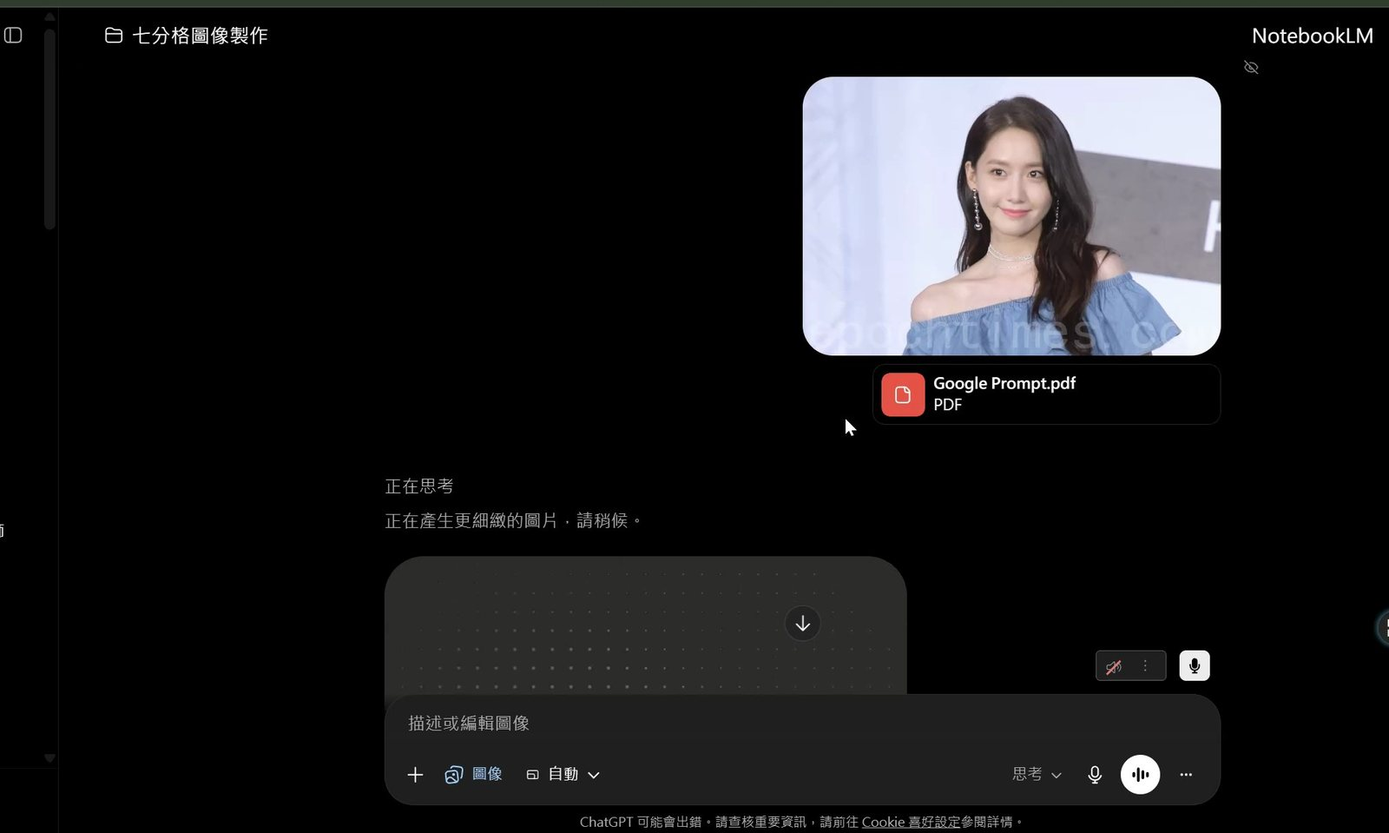
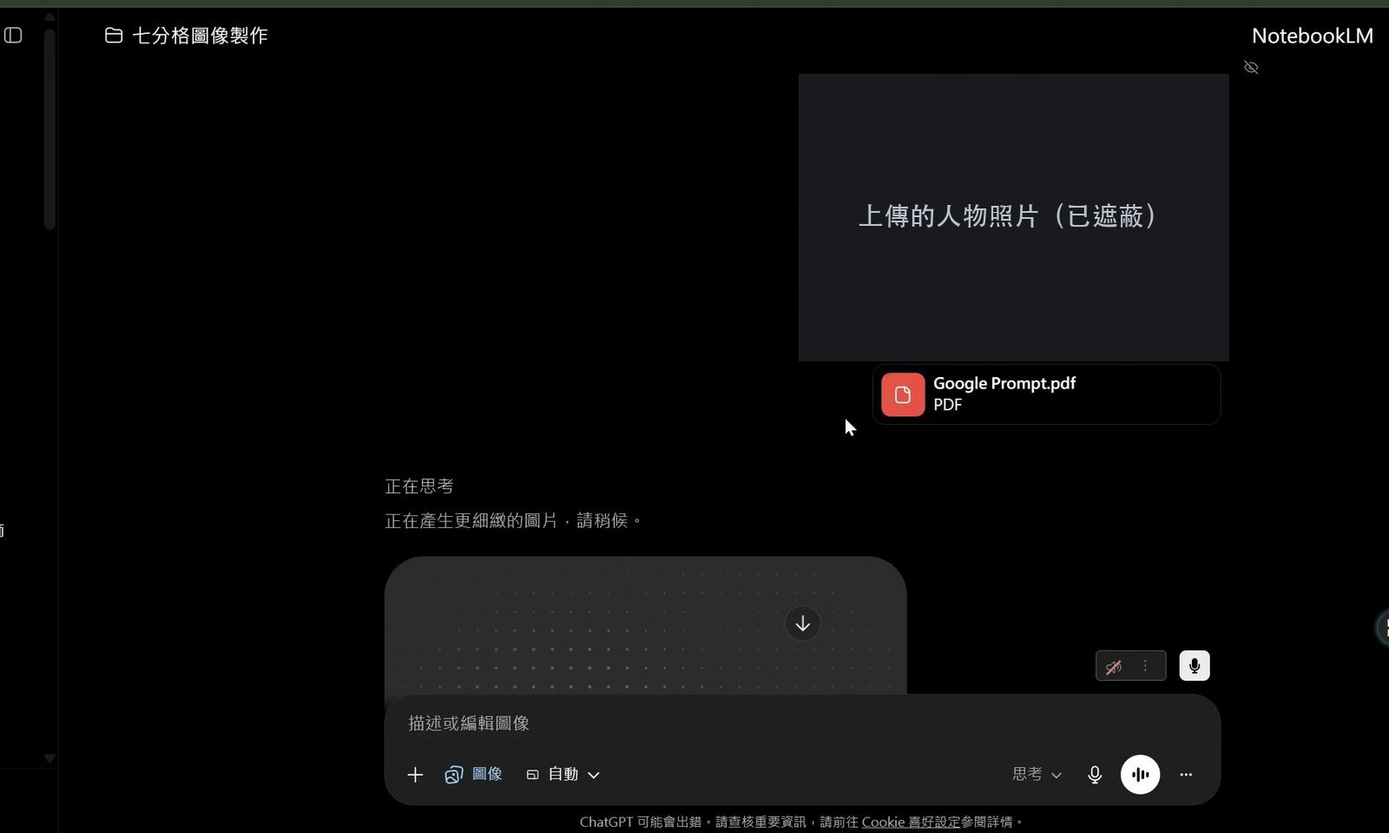
修正 ECF 第二季第三堂公開頁的引述、事實與去識別化問題
獨立驗收找出 20 項問題，本次處理其餘 14 項（阻擋上線的 iframe 與資料夾連結已於前一次提交移除）：

內容正確性
- 刪掉一句捏造引述「看到主角在夾娃娃機前哭」，改為逐字稿 28:32 的原話
- 「六階段的營運 SOP」更正為五階段（圖上實際只有 5 段）
- 三處引用句對齊截圖原文：「版型及風格」→「版型與風格」、「3D皮克斯風 +」→「3D皮克斯 +」
- 移除公開頁上的〔待確認〕，依上下文（青銅器）確認為「古畫」
- 示範用信箱改為通用寫法，並註明課堂上是假帳號
- 修正兩章時間範圍，讓圖說時間戳落在所屬章節內

去識別化
- 遮蔽課堂素材中的第三人肖像照片（含通訊社浮水印）
- 遮蔽個股示範圖的標的名稱與買賣結論、看盤畫面的股票名稱與報價
- 再裁掉四張圖殘留的講師個人環境（對話清單、側邊欄、工作列、疊字按鈕列）
- 簡報縮頁圖改以原生解析度重新擷取

Claude-Session: https://claude.ai/code/session_01U8aSQE8ohxsCQnDEmVAMM1

Changed region(s): [[0.5625, 0.0907, 0.9062, 0.4536]]

diff --git a/public/notes/s2e3-notes.html b/public/notes/s2e3-notes.html
@@ -160,7 +160,7 @@ footer a{color:var(--ink2)}
   <h3>🎬 課堂錄影</h3>
   <p class="cd">上半場：開場說明 → 16 格貼圖 → 免費帳號與 LM Arena → 七分格實作 → ChatGPT 專案與版型鎖定 → SWOT／DISC 圖表 →「說好的圖呢」。下半場：舊提示詞升級 → 寬幅心智圖 → 簡報縮頁 → 11 種圖表動態參數 → 個股分析與手機端操作 → 收尾。</p>
   <div class="note steel">🔧 <div><b>錄影不放在這一頁，也不提供連結。</b>兩段課堂錄影是課程方的教材，只在訂閱學員的課程資料夾裡；已訂閱的學員請自行前往原課程資料夾觀看。本頁只保留整理後的文字、截圖與時間軸。</div></div>
-  <div class="note gold">🔒 <div><b>本頁的截圖已裁掉線上教室的與會者名單與講師的個人帳號環境。</b>原始錄影是 Teams 畫面分享，畫面上方是網址列與個人頭像、左側是講師釘選的 GPT 清單與帳號名稱、九宮格上有 24 位學員的真實姓名。整理成公開頁面時這四類一律裁除或整幀替換，逐字稿裡出現的學員暱稱也一併隱去。</div></div>
+  <div class="note gold">🔒 <div><b>本頁的截圖已裁掉線上教室的與會者名單與講師的個人帳號環境。</b>原始錄影是 Teams 畫面分享，畫面上方是網址列與個人頭像、左側是講師釘選的 GPT 清單與帳號名稱、九宮格上有 24 位學員的真實姓名。整理成公開頁面時這四類一律裁除或整幀替換，逐字稿裡出現的學員暱稱也一併隱去。另外三類也做了遮蔽：課堂上當作素材的<b>第三人肖像照片</b>（含通訊社浮水印）、個股示範圖上的<b>標的名稱與買賣結論</b>、看盤畫面的<b>股票名稱與報價</b>。</div></div>
 </section>
 
 <!-- ══════════ 1 ══════════ -->
@@ -195,7 +195,7 @@ footer a{color:var(--ink2)}
 
     <rect x="496" y="52" width="222" height="86" rx="12" fill="#FBF7EC" stroke="#EFE3C4"/>
     <text x="607" y="80" text-anchor="middle" font-size="14.5" font-weight="700" fill="#7a5b12">② 鎖住版型</text>
-    <text x="607" y="102" text-anchor="middle" font-size="12.5" fill="#5f5f5f">「版型及風格必須與</text>
+    <text x="607" y="102" text-anchor="middle" font-size="12.5" fill="#5f5f5f">「版型與風格必須與</text>
     <text x="607" y="120" text-anchor="middle" font-size="12.5" fill="#5f5f5f">資料來源中的檔案一致」</text>
 
     <line x1="718" y1="95" x2="752" y2="95" stroke="#9B9B9B" stroke-width="1.6" marker-end="url(#ar)"/>
@@ -269,10 +269,11 @@ footer a{color:var(--ink2)}
 
   <h3>方法一：Gmail 加號別名，一個信箱當十個帳號用</h3>
   <p>ChatGPT 註冊時<b>不要用 Google 登入，改用 Email 註冊</b>。把你原本的 Gmail 加上 <code>+1</code>、<code>+2</code>、<code>+3</code>，對 Google 信箱來說仍是同一個信箱，會收到驗證信，但對 ChatGPT 來說是不同帳號。</p>
-  <div class="code">原本：eric.yng@gmail.com
-註冊用：eric.yng+1@gmail.com
-　　　　eric.yng+2@gmail.com
-　　　　eric.yng+3@gmail.com</div>
+  <div class="code">原本：yourname@gmail.com
+註冊用：yourname+1@gmail.com
+　　　　yourname+2@gmail.com
+　　　　yourname+3@gmail.com</div>
+  <p class="cd">課堂上他是拿一組信箱當場示範，並在畫面上說「這個是假的帳號，不用寄給我」。本頁改成通用寫法，換成你自己的信箱即可。</p>
   <ol class="st">
     <li>在 ChatGPT 註冊頁選 <b>用 Email 註冊</b>，填加了 <code>+N</code> 的信箱。</li>
     <li>回你<b>原本</b>的 Gmail 收驗證信，把驗證碼填回去，帳號就成立。</li>
@@ -311,7 +312,7 @@ footer a{color:var(--ink2)}
 
   <figure class="shot">
     <img src="s2e3-img/04-wrong-sample.jpg" alt="AI 產出的七分格圖，主題卻是提示詞範例裡的「損失規避」而不是筆電" loading="lazy">
-    <figcaption>失敗長這樣。整張圖的版型、格數、色調都對，但主題錯了——它畫的是提示詞裡當範例用的「為什麼我們更害怕失去？損失規避」，完全沒讀到那個筆電連結。他說：<b>看到主角在夾娃娃機前哭，就知道它抓的是樣本。</b>［上半場 28:34］</figcaption>
+    <figcaption>失敗長這樣。整張圖的版型、格數、色調都對，但主題錯了——它畫的是提示詞裡當範例用的「為什麼我們更害怕失去？損失規避」，完全沒讀到那個筆電連結。他當場的說法是：<b>「他沒有抓到我要的資料……像他這個就沒有抓到，直接抓所謂損失規避的部分。」</b>［上半場 28:32］</figcaption>
   </figure>
 
   <h3>兩個修法</h3>
@@ -368,7 +369,7 @@ footer a{color:var(--ink2)}
   <p class="cd">人物一致性今年已經不難了，難的是<b>版型與配色</b>每次都不一樣。他花了整整十二分鐘，只為了教一句話。</p>
 
   <p>做法是在原本的七分格提示詞最後面，加上這一句：</p>
-  <div class="code">圖像版型及風格必須與資料來源中的檔案一致。</div>
+  <div class="code">圖像版型與風格必須與資料來源中的檔案一致。</div>
 
   <figure class="shot">
     <img src="s2e3-img/07-anchor-line.jpg" alt="記事本中的七分格提示詞，末尾新加的「資料來源中的檔案一致」被反白" loading="lazy">
@@ -399,7 +400,7 @@ footer a{color:var(--ink2)}
   <h2 class="ct">7. 分析框架也能好看：尾巴加一句風格</h2>
   <p class="cd">他在社團分享過很多張漂亮的分析圖表——DISC 人格特質、PEST、SWOT、平衡計分卡、波士頓分析。有人問「為什麼你畫出來的圖會像這樣子？」答案又是一句話。</p>
 
-  <div class="code">圖像版型與風格：3D皮克斯風 + 麥肯錫專業圖表風</div>
+  <div class="code">圖像版型與風格: 3D皮克斯 + 麥肯錫專業圖表風</div>
 
   <figure class="shot">
     <img src="s2e3-img/08-style-line.jpg" alt="記事本中的提示詞末尾，新加的風格句被反白" loading="lazy">
@@ -410,7 +411,7 @@ footer a{color:var(--ink2)}
 
   <figure class="shot">
     <img src="s2e3-img/09-swot-trump.jpg" alt="3D 皮克斯風格的 SWOT 分析圖，主題是美伊戰爭對物價通膨的影響" loading="lazy">
-    <figcaption>當場產出的成品。主題是他隨口給的「個人背景資料：川普／分析主題：美伊戰爭對於物價通膨的影響」。看四個象限的配置——優勢、劣勢、機會、威脅照 SWOT 標準位置擺，右下角還多了 SO 展開策略與 WT 因應方針兩欄，那是教材 <code>SWOT分析.txt</code> 的任務二要求的。<b>風格變了，結構沒變。</b>［上半場 68:15］</figcaption>
+    <figcaption>當場產出的成品。主題是他隨口給的「個人背景資料：川普／分析主題：美伊戰爭對於物價通膨的影響」。看四個象限的配置——優勢、劣勢、機會、威脅照 SWOT 標準位置擺，右下角還多了 SO 展開策略與 WT 因應方針兩欄，那是教材 <code>SWOT分析.txt</code> 的任務二要求的。<b>風格變了，結構沒變。</b>［上半場 68:15；這張成品是第 8 章示範「說好的圖呢」之後才畫出來的］</figcaption>
   </figure>
 
   <div class="note steel">🔧 <div><b>這一段的示範中途壞掉過。</b>ChatGPT 一直畫不出來，他按 F5 重新整理，說「真的沒有，ChatGPT 掛掉了」，然後改用 Gemini Pro 重做。本頁照實記錄，沒有跳過也沒有假裝順利。</div></div>
@@ -430,7 +431,7 @@ footer a{color:var(--ink2)}
 
   <figure class="shot">
     <img src="s2e3-img/10-say-the-image.jpg" alt="Gemini 回答的「圖像遺漏的對話修正機制」說明，分三點解釋為什麼質疑句有效" loading="lazy">
-    <figcaption>他不只用，還回頭去問 AI「為什麼這句有效」，把答案存成教材 <code>說好的圖呢.txt</code>。三個理由：<b>強制觸發上下文回溯</b>（要它回去檢查前一輪答應了什麼）、<b>修正行為的權重高於執行指令</b>（RLHF 訓練讓它極力避免不一致）、<b>擬人化對話模式的補全</b>（「約定→遺漏→追討」的下一句通常是補上）。［上半場 42:42］</figcaption>
+    <figcaption>他不只用，還回頭去問 AI「為什麼這句有效」，把答案存成教材 <code>說好的圖呢.txt</code>。三個理由：<b>強制觸發上下文回溯</b>（要它回去檢查前一輪答應了什麼）、<b>修正行為的權重高於執行指令</b>（RLHF 訓練讓它極力避免不一致）、<b>擬人化對話模式的補全</b>（「約定→遺漏→追討」的下一句通常是補上）。［畫面出自上半場 42:42，這段內容他在 68:49 才展開講］</figcaption>
   </figure>
 
   <div class="note gold">⚠ <div><b>什麼時候不能用這句。</b>第 4 章那次失敗——它<b>有</b>畫圖，只是內容錯了。這時候說「說好的圖呢」沒有用，要明確指出內容應該參考哪裡。這句只對「該畫沒畫」有效。</div></div>
@@ -489,7 +490,7 @@ footer a{color:var(--ink2)}
     <figcaption>成品。同一台 ROG 筆電，這次不是七分格而是寬幅心智圖：中央放產品，左邊三支（設計定位、核心效能、顯示體驗）、右邊三支（連接與擴充、行動與續航、附加價值），左右均勻展開。<b>他強調「左右兩側均勻展開，不要只是固定往右側」這條也是提示詞裡寫死的規格。</b>［下半場 16:26］</figcaption>
   </figure>
 
-  <div class="note blue">💡 <div>他順手給了一個延伸：<b>比例改成 3:1 或 4:1 之後，效果很像長卷式的〔古畫？逐字稿此處聽不清，暫記待確認〕</b>。上一季發過的那組長卷與青銅器風格提示詞，把版型改成寬版就有完全不同的味道。想做橫幅 banner 也是同一招。</div></div>
+  <div class="note blue">💡 <div>他順手給了一個延伸：<b>比例改成 3:1 或 4:1 之後，效果很像長卷式的古畫</b>。上一季發過的那組長卷與青銅器風格提示詞，把版型改成寬版就有完全不同的味道。想做橫幅 banner 也是同一招。</div></div>
 </section>
 
 <!-- ══════════ 11 ══════════ -->
@@ -522,7 +523,7 @@ footer a{color:var(--ink2)}
 
   <figure class="shot">
     <img src="s2e3-img/16-pyramid-linear.jpg" alt="一張同時包含左側線性流程圖與右側金字塔層級圖的親子餐廳企劃資訊圖" loading="lazy">
-    <figcaption>這張圖是這一節的重點。他故意刁難：<b>「左側為線性流程圖，右側為金字塔層級圖」</b>——看成品，左邊真的是六階段的營運 SOP 橫向流程，右邊真的是六層的品牌價值金字塔。原本的提示詞裡完全沒有「左側／右側」這種欄位，是他當場加上去的。［下半場 30:25］</figcaption>
+    <figcaption>這張圖是這一節的重點。他故意刁難：<b>「左側為線性流程圖，右側為金字塔層級圖」</b>——看成品，左邊真的是五階段的營運 SOP 橫向流程，右邊真的是六層的品牌價值金字塔。原本的提示詞裡完全沒有「左側／右側」這種欄位，是他當場加上去的。［下半場 30:25］</figcaption>
   </figure>
 
   <h3>動態參數：結構裡沒有的，也可以臨時給</h3>
@@ -546,7 +547,7 @@ footer a{color:var(--ink2)}
 
 <!-- ══════════ 13 ══════════ -->
 <section class="chapter" id="sec-stock">
-  <span class="chip" style="background:linear-gradient(90deg,var(--rose),var(--pink))">下半場 32:00–36:00</span>
+  <span class="chip" style="background:linear-gradient(90deg,var(--rose),var(--pink))">下半場 32:00–36:00、47:00–51:00</span>
   <h2 class="ct">13. 個股分析圖表：兩個多禮拜磨出來的版型</h2>
   <p class="cd">下半場的後半是這堂最花時間做出來的東西，也是最需要先講清楚界線的東西。</p>
 
@@ -557,7 +558,7 @@ footer a{color:var(--ink2)}
 
   <figure class="shot">
     <img src="s2e3-img/17-stock-chart.jpg" alt="深色交易終端風格的個股分析資訊圖，分成技術面、籌碼面、操作與警示三欄" loading="lazy">
-    <figcaption>成品的版型：左欄技術面（日 K、MA5／MA20／MA60、成交量、RSI／MACD／KD），中欄籌碼面（三大法人 10 日動向、法人買賣超表格、主力進出），右欄操作與警示（成交量分析、主力出貨警示紅燈、短線進場勝率儀表、關鍵價位、可能路徑、重點總結）。中間那個超大的字就是結論。<b>左下角有一行免責聲明。</b>［下半場 50:20］</figcaption>
+    <figcaption>成品的版型：左欄技術面（日 K、MA5／MA20／MA60、成交量、RSI／MACD／KD），中欄籌碼面（三大法人 10 日動向、法人買賣超表格、主力進出），右欄操作與警示（成交量分析、主力出貨警示紅燈、短線進場勝率儀表、關鍵價位、可能路徑、重點總結）。中間那個超大的字就是結論，<b>本頁已遮蔽</b>；右下角的標的名稱同樣遮掉，只留版型。原圖右下角有一行免責聲明「本圖為技術分析整理，不保證獲利」。［下半場 50:20］</figcaption>
   </figure>
 
   <h3>他花最多時間調的三件事</h3>
@@ -577,7 +578,7 @@ footer a{color:var(--ink2)}
 
 <!-- ══════════ 14 ══════════ -->
 <section class="chapter" id="sec-mobile">
-  <span class="chip" style="background:linear-gradient(90deg,var(--orange),var(--amber))">下半場 36:00–48:00</span>
+  <span class="chip" style="background:linear-gradient(90deg,var(--orange),var(--amber))">下半場 36:00–47:00</span>
   <h2 class="ct">14. 手機端才是主場：三張截圖出一張圖</h2>
   <p class="cd">這一節回答了一個前面留下的問題：為什麼一定要做成「專案」？因為<b>專案在手機的 ChatGPT App 裡也叫得到</b>，而看盤是在手機上發生的事。</p>
 
@@ -590,7 +591,7 @@ footer a{color:var(--ink2)}
 
   <figure class="shot">
     <img src="s2e3-img/18-mobile-shots.jpg" alt="手機看盤 App 的三大法人買賣超畫面，紅色柱狀圖與股價折線" loading="lazy">
-    <figcaption>要截的第二張長這樣：三大法人的買賣超柱狀圖加股價折線。他說「你不要刻意把那個時間都截掉，ChatGPT 就很厲害，他不需要把這個東西給刪除掉，整個畫面給他就好了」——<b>不用先整理素材，整個螢幕丟給它。</b>［下半場 39:28］</figcaption>
+    <figcaption>要截的第二張長這樣：三大法人的買賣超柱狀圖加股價折線。他說「你不要刻意把那個時間都截掉，ChatGPT 就很厲害，他不需要把這個東西給刪除掉，整個畫面給他就好了」——<b>不用先整理素材，整個螢幕丟給它。</b>本頁已遮蔽畫面上方的股票名稱與報價，只保留版面示意。［下半場 39:28］</figcaption>
   </figure>
 
   <div class="note green">✅ <div><b>手機出圖比電腦快。</b>這是他實測後的建議：「手機端真的出圖速度比較快，你可以比較看看，我沒有騙你。它圖的輸出真的遠比電腦來得快，我個人覺得啦，它真的快很多。」而且做成專案之後，人在哪裡都能用。</div></div>
@@ -607,7 +608,7 @@ footer a{color:var(--ink2)}
   <p>「16 個美食主題」「這座標附近」——這種句子讀起來很具體，但它把提示詞綁死在一個場合。整堂十幾個示範，第一個動作永遠是把那一句找出來、刪掉、換成 <code>{上傳的資料／連結}</code>。找得到那一句，你就不用再跟人要提示詞了。</p>
 
   <h3>二、「每次都要一樣」的東西不該寫在提示詞裡，該放進資料來源</h3>
-  <p>版型、配色、格線、字級關係，用文字描述永遠會漂。正確做法是把一張做對的成品放進 ChatGPT 專案的「資料來源」，再加一句「圖像版型及風格必須與資料來源中的檔案一致」。這是全堂唯一講了十二分鐘的一句話，也是職場落地的關鍵——你的會議紀錄、專案報告、簡報都有固定格式。</p>
+  <p>版型、配色、格線、字級關係，用文字描述永遠會漂。正確做法是把一張做對的成品放進 ChatGPT 專案的「資料來源」，再加一句「圖像版型與風格必須與資料來源中的檔案一致」。這是全堂唯一講了十二分鐘的一句話，也是職場落地的關鍵——你的會議紀錄、專案報告、簡報都有固定格式。</p>
 
   <h3>三、風格是一行字，不是重寫一份提示詞</h3>
   <p>「3D 皮克斯風＋麥肯錫專業圖表風」「版型為寬幅 寬高比 3:1」。掛在任何一份舊提示詞的最後面，結構一個字不用改，產出立刻不一樣。他幾年前寫的流程圖、雷達圖、心智圖語法就是這樣一次全部復活的——<b>以前學的千萬不要放掉。</b></p>

diff --git a/public/notes/s2e3-ai-skills.html b/public/notes/s2e3-ai-skills.html
@@ -270,7 +270,7 @@ const DATA = {
 
       {t:'One-shot 樣本不是題目', s:'七分格最常見的誤會｜上半場 22:00–29:00', blocks:[
         {h:'問題長什麼樣',warn:'七分格提示詞中間有一大段很長的描述，講「為什麼我們更害怕失去」「沉沒成本」「湊免運費」。<b>那是樣本（One-shot），在示範格式長什麼樣，不是題目。</b>當 AI 讀不到你給的外部連結，它就會照著樣本畫。'},
-        {h:'失敗的樣子',shot:{img:'s2e3-img/04-wrong-sample.jpg',cap:'版型、格數、色調全對，但主題是提示詞裡的範例「損失規避」，完全沒讀到那個筆電連結。看到主角在夾娃娃機前哭，就知道它抓的是樣本。［上半場 28:34］'}},
+        {h:'失敗的樣子',shot:{img:'s2e3-img/04-wrong-sample.jpg',cap:'版型、格數、色調全對，但主題是提示詞裡的範例「損失規避」，完全沒讀到那個筆電連結。他當場說「他沒有抓到我要的資料……直接抓所謂損失規避的部分」。［上半場 28:32］'}},
         {h:'怎麼確認是這個問題',p:'看產出的<b>主題</b>跟提示詞範例段落一不一樣。一樣就是外部連結沒讀到，不是提示詞寫錯。'},
         {h:'看課堂筆記',p:'👉 <a href="s2e3-notes.html#sec-7grid" style="color:var(--blue)">筆記 4：那一大段不是要它畫的東西</a>'}]},
 
@@ -304,7 +304,7 @@ const DATA = {
         {h:'看課堂筆記',p:'👉 <a href="s2e3-notes.html#sec-project" style="color:var(--purple)">筆記 5：建立一個專案，四個步驟</a>'}]},
 
       {t:'全堂講最久的那一句：版型與風格必須與資料來源一致', s:'十二分鐘只為教一句話｜上半場 40:00–52:00', blocks:[
-        {h:'那句話',prompt:'圖像版型及風格必須與資料來源中的檔案一致。'},
+        {h:'那句話',prompt:'圖像版型與風格必須與資料來源中的檔案一致。'},
         {h:'加在哪裡',p:'加在<b>整份提示詞的最後面</b>，不是加在描述人物的那一段——因為它管的是整張圖。加完再整份貼進「專案設定」的指令欄。'},
         {h:'它為什麼有效',p:'寫了這句之後，這個專案<b>每一次</b>出圖都會回頭去對「資料來源」裡那張範例圖：同樣的配色、同樣的格線、同樣的字級關係。人物一致性今年已經不難，難的是版型與配色每次都不一樣——這句就是解法。'},
         {h:'實機畫面',shot:{img:'s2e3-img/07-anchor-line.jpg',cap:'反白的那一段就是新加的，位置在提示詞的最後、送進專案設定之前。［上半場 47:31］'}},
@@ -342,7 +342,7 @@ const DATA = {
     intro:'這一章的三句話都是掛在提示詞最後面的，上面的結構一個字都不用改。他自己幾年前寫的流程圖、雷達圖、心智圖語法就是這樣一次全部復活的。',
     topics:[
       {t:'3D皮克斯風 + 麥肯錫專業圖表風', s:'讓分析框架變得能看｜上半場 58:00–66:00', blocks:[
-        {h:'那句話',prompt:'圖像版型與風格：3D皮克斯風 + 麥肯錫專業圖表風'},
+        {h:'那句話',prompt:'圖像版型與風格: 3D皮克斯 + 麥肯錫專業圖表風'},
         {h:'加在哪裡',p:'跟上一章一樣：<b>整份提示詞的最後一行</b>。上面那一大段 SWOT／PEST／DISC 的任務描述、Mermaid 或 PlantUML 語法都不用動。'},
         {h:'加之前 vs 加之後',table:{head:['','產出'],rows:[
           ['沒加','Mermaid／UML 語法畫出來的四象限圖——正確但乾'],
@@ -404,7 +404,7 @@ const DATA = {
 
       {t:'動態參數：結構裡沒有的也能臨時給', s:'這一章的核心觀念｜下半場 26:00–32:00', blocks:[
         {h:'他故意刁難的那一句',prompt:'圖表：金字塔層級圖（右側） + 線性流程圖（左側）'},
-        {h:'結果',p:'原本的提示詞裡<b>完全沒有「左側／右側」這種欄位</b>，但它做到了：左邊是六階段的營運 SOP 橫向流程，右邊是六層的品牌價值金字塔。'},
+        {h:'結果',p:'原本的提示詞裡<b>完全沒有「左側／右側」這種欄位</b>，但它做到了：左邊是五階段的營運 SOP 橫向流程，右邊是六層的品牌價值金字塔。'},
         {h:'成品',shot:{img:'s2e3-img/16-pyramid-linear.jpg',cap:'左側線性流程圖、右側金字塔層級圖，一張圖裡兩種圖表。［下半場 30:25］'}},
         {h:'還能臨時加什麼',ul:[
           '<b>主角</b>：「主角請根據上傳的 Q 版人物」——結構裡沒有這個欄位也行',
@@ -442,7 +442,7 @@ const DATA = {
     intro:'他先問全場兩個問題：沒付費訂閱 ChatGPT 的按 1、有「只能畫三張圖」困擾的按 4。兩題都很多人舉手，所以有了這一章。最後一節是全堂最需要先講清楚界線的地方。',
     topics:[
       {t:'一個 Gmail 當十個帳號用', s:'加號別名｜上半場 16:00–19:00', blocks:[
-        {h:'怎麼做',prompt:'原本：eric.yng@gmail.com\n註冊用：eric.yng+1@gmail.com\n　　　　eric.yng+2@gmail.com\n　　　　eric.yng+3@gmail.com'},
+        {h:'怎麼做',prompt:'原本：yourname@gmail.com\n註冊用：yourname+1@gmail.com\n　　　　yourname+2@gmail.com\n　　　　yourname+3@gmail.com'},
         {h:'步驟',steps:[
           '在 ChatGPT 註冊頁選 <b>用 Email 註冊</b>（不要用 Google 登入），填加了 +N 的信箱',
           '回你<b>原本</b>的 Gmail 收驗證信，把驗證碼填回去',

diff --git a/public/notes/s2e3-prompts.html b/public/notes/s2e3-prompts.html
@@ -121,9 +121,9 @@ footer a{color:var(--ink2)}
   </table></div>
   <h3>課堂上教的那兩句加料</h3>
   <p>下面兩句是益師傅這一堂反覆示範的關鍵，<b>原始教材檔裡沒有</b>，是他當場加上去的。把它們接在任何一份提示詞的最後面，效果差很多：</p>
-  <div class="code">圖像版型及風格必須與資料來源中的檔案一致。</div>
+  <div class="code">圖像版型與風格必須與資料來源中的檔案一致。</div>
   <p>用在 ChatGPT 專案：把範例圖放進「資料來源」，這句話讓它每次都去對齊那個版型與配色，七分格就不會每次長不一樣。</p>
-  <div class="code">圖像版型與風格：3D皮克斯風 + 麥肯錫專業圖表風</div>
+  <div class="code">圖像版型與風格: 3D皮克斯 + 麥肯錫專業圖表風</div>
   <p>用在分析框架類：接在 SWOT／PEST／DISC 那幾份的最後面，原本乾巴巴的四象限圖會變成可以直接貼上簡報的圖表。</p>
   <div class="note gold">⚠ <div><b>台股與個股分析那兩份不是投資建議。</b>它們示範的是「資料抓取規則」與「資訊圖版型」的寫法。原檔自己也寫了免責：本圖為技術分析整理，不保證獲利。</div></div>
 </section>
